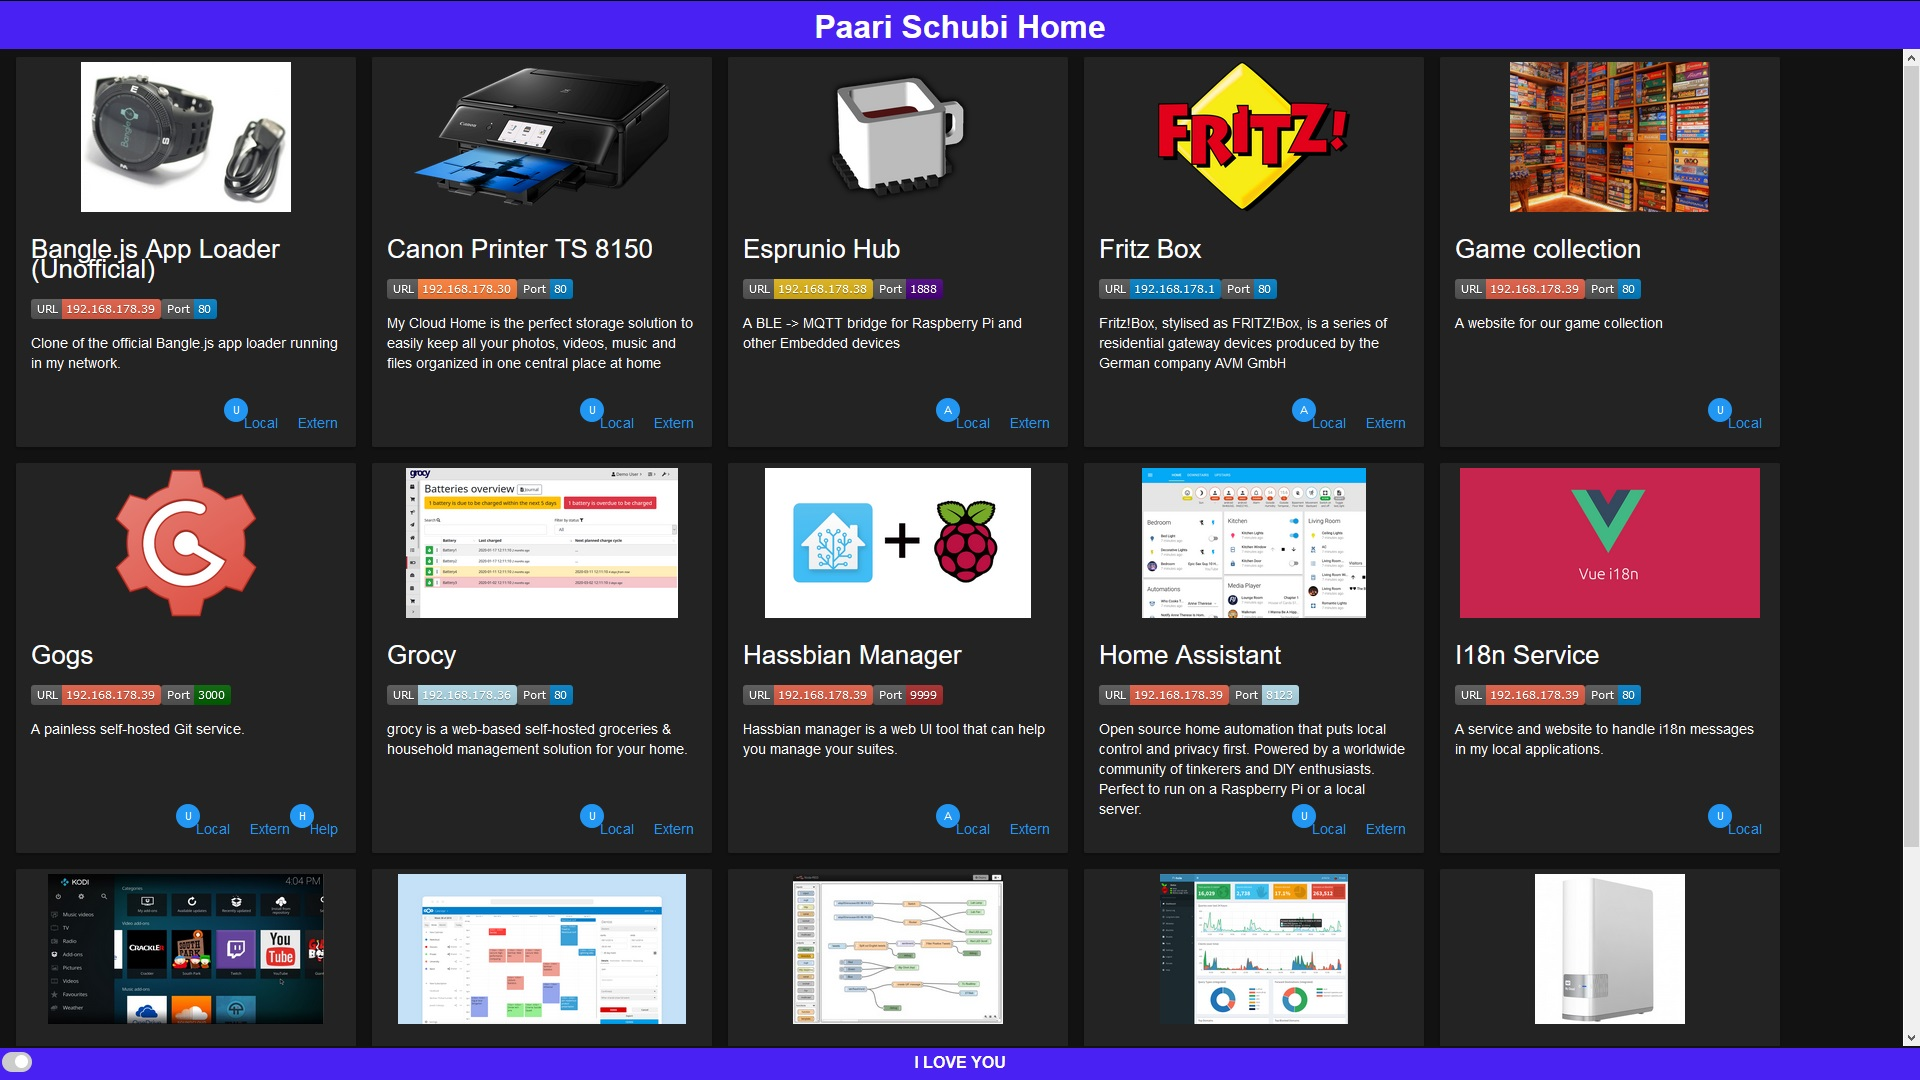
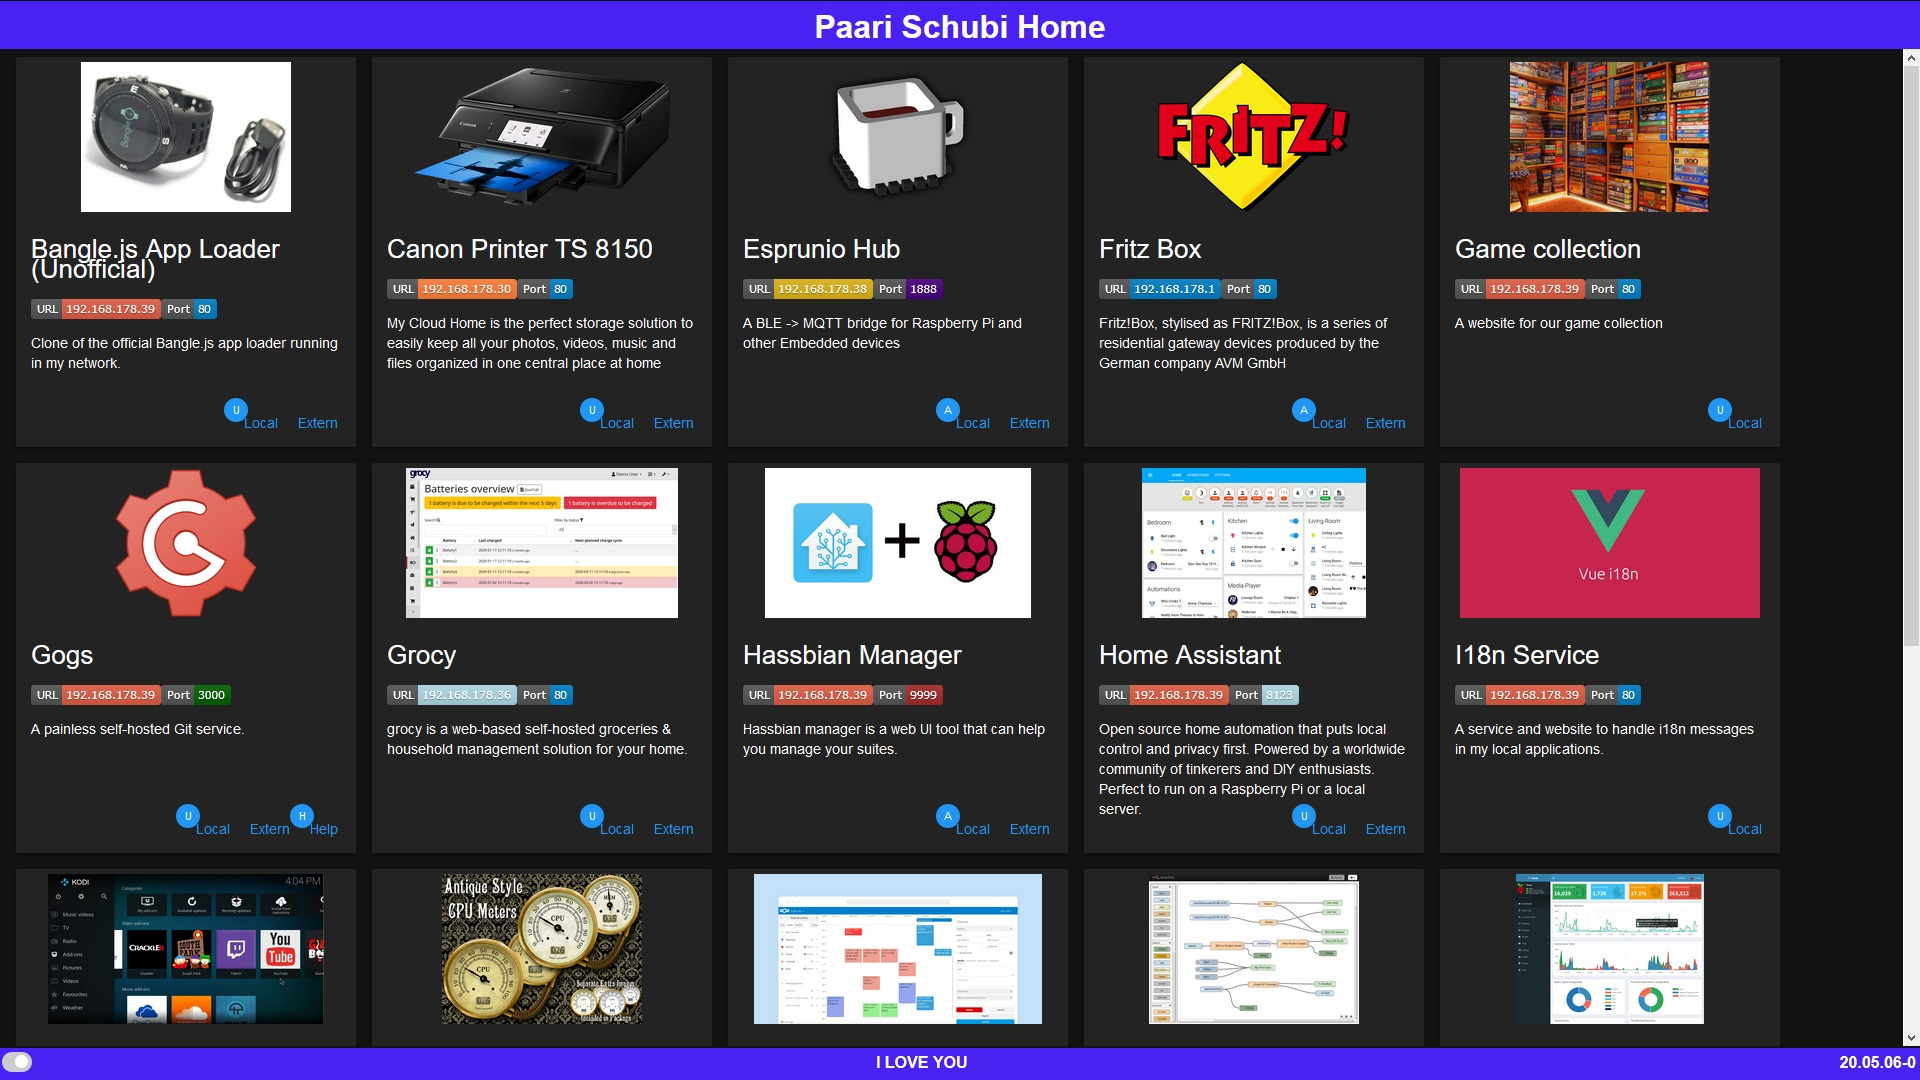
adds meter tracker link

diff --git a/index.html b/index.html
@@ -183,6 +183,21 @@
             </div>
 
             <div class="card">
+                <a href="http://192.168.178.39/meter-tracker" target="_blank"><img class="card-image" src="https://img00.deviantart.net/2e68/i/2011/143/e/e/antique_cpu_meter_by_elmer_befuddled-d3gjlsn.png" /></a>
+                <div class="card-details">
+                    <h2 class="card-head">Meter tracker</h2>
+                    <div style="display: flex;">
+                        <a href="http://192.168.178.39/meter-tracker" target="_blank"><img class="card-image" src="https://img.shields.io/badge/URL-192.168.178.39-red.svg" /></a>
+                        <a href="http://192.168.178.39/meter-tracker" target="_blank"><img class="card-image" src="https://img.shields.io/badge/Port-80-blue.svg" /></a>
+                    </div>
+                    <p>A service and website to log meters and visualize the usage.</p>
+                    <div class="card-actions">
+                        <a href="http://192.168.178.39/meter-tracker" target="_blank" class="card-action-button" data-badge="U">Local</a>
+                    </div>
+                </div>
+            </div>
+
+            <div class="card">
                 <a href="http://192.168.178.39/nextcloud/" target="_blank"><img class="card-image" src="https://proxy.duckduckgo.com/iu/?u=https%3A%2F%2Fnextcloud.com%2Fwp-content%2Fthemes%2Fnext%2Fassets%2Fimg%2Ffeatures%2Fcalendar-nw.png%3Fx16328&f=1&nofb=1" /></a>
                 <div class="card-details">
                     <h2 class="card-head">Nextcloud</h2>
@@ -252,7 +267,8 @@
 				<input type="checkbox" onclick="changeTheme()">
 				<span class="slider round"></span>
 			</label>
-			I LOVE YOU
+            I LOVE YOU
+            <div style="float: right;">20.05.06-0</div>
 		</div>
     </body>
 </html>
